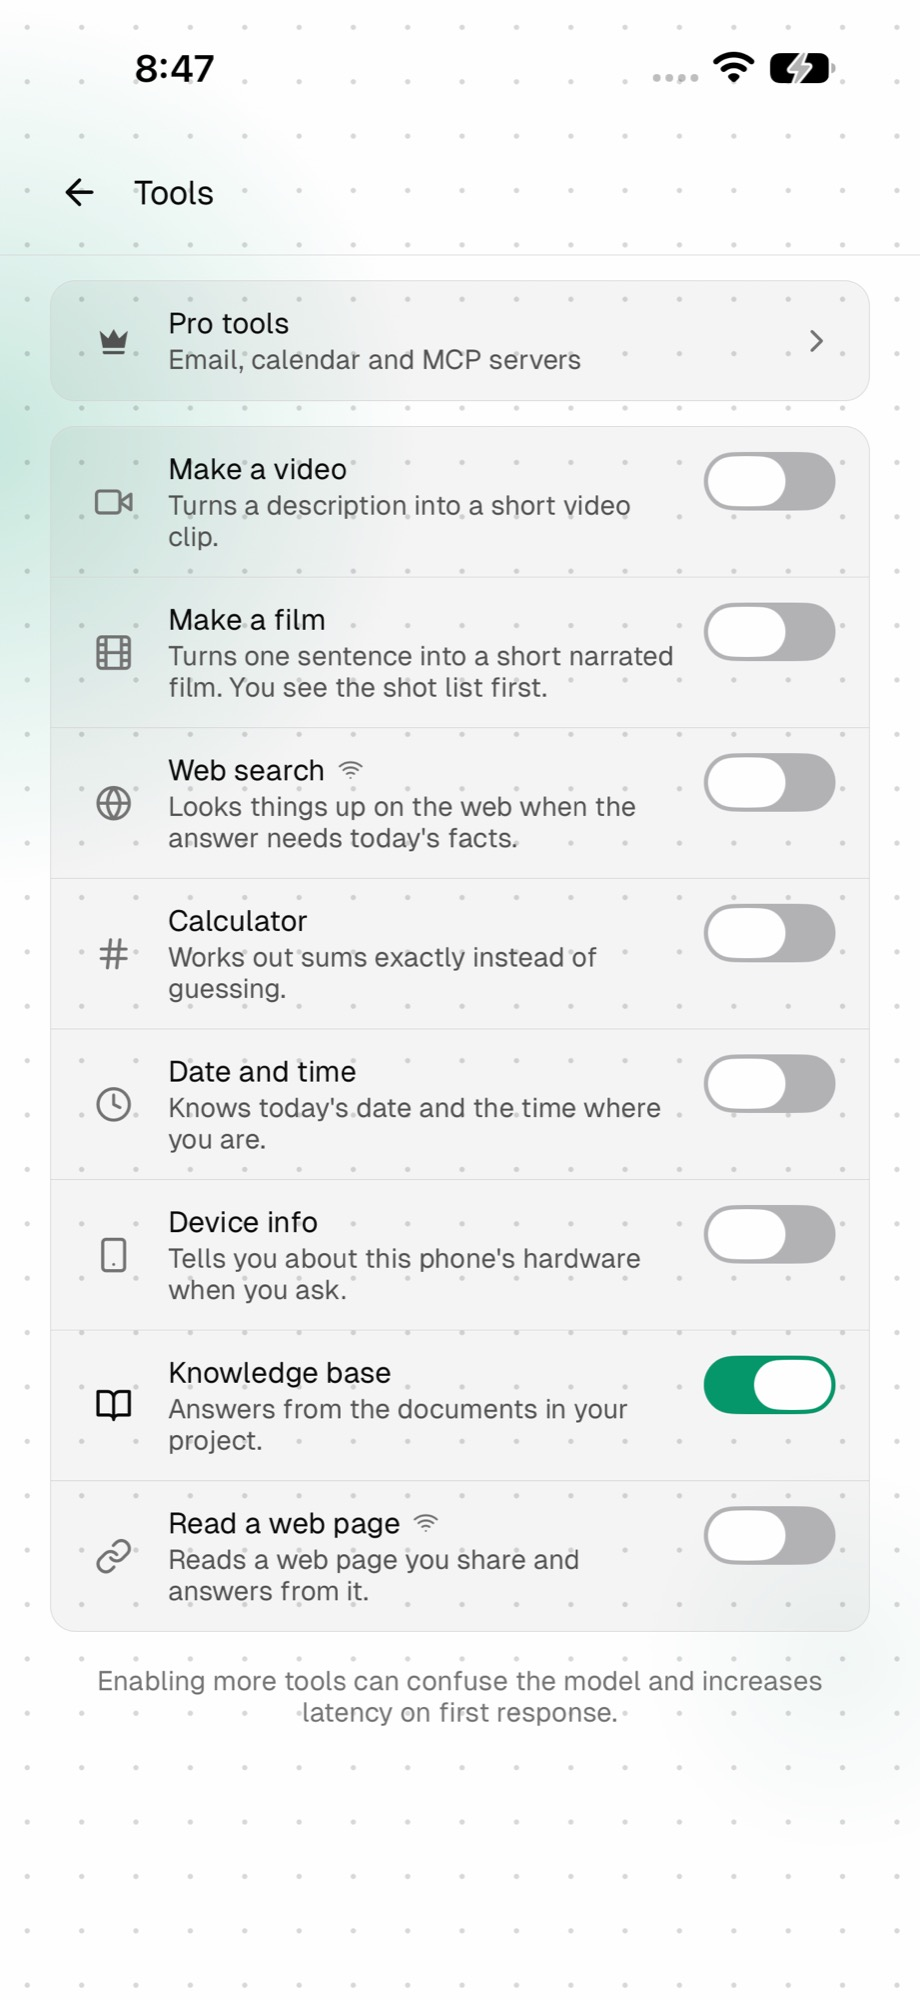
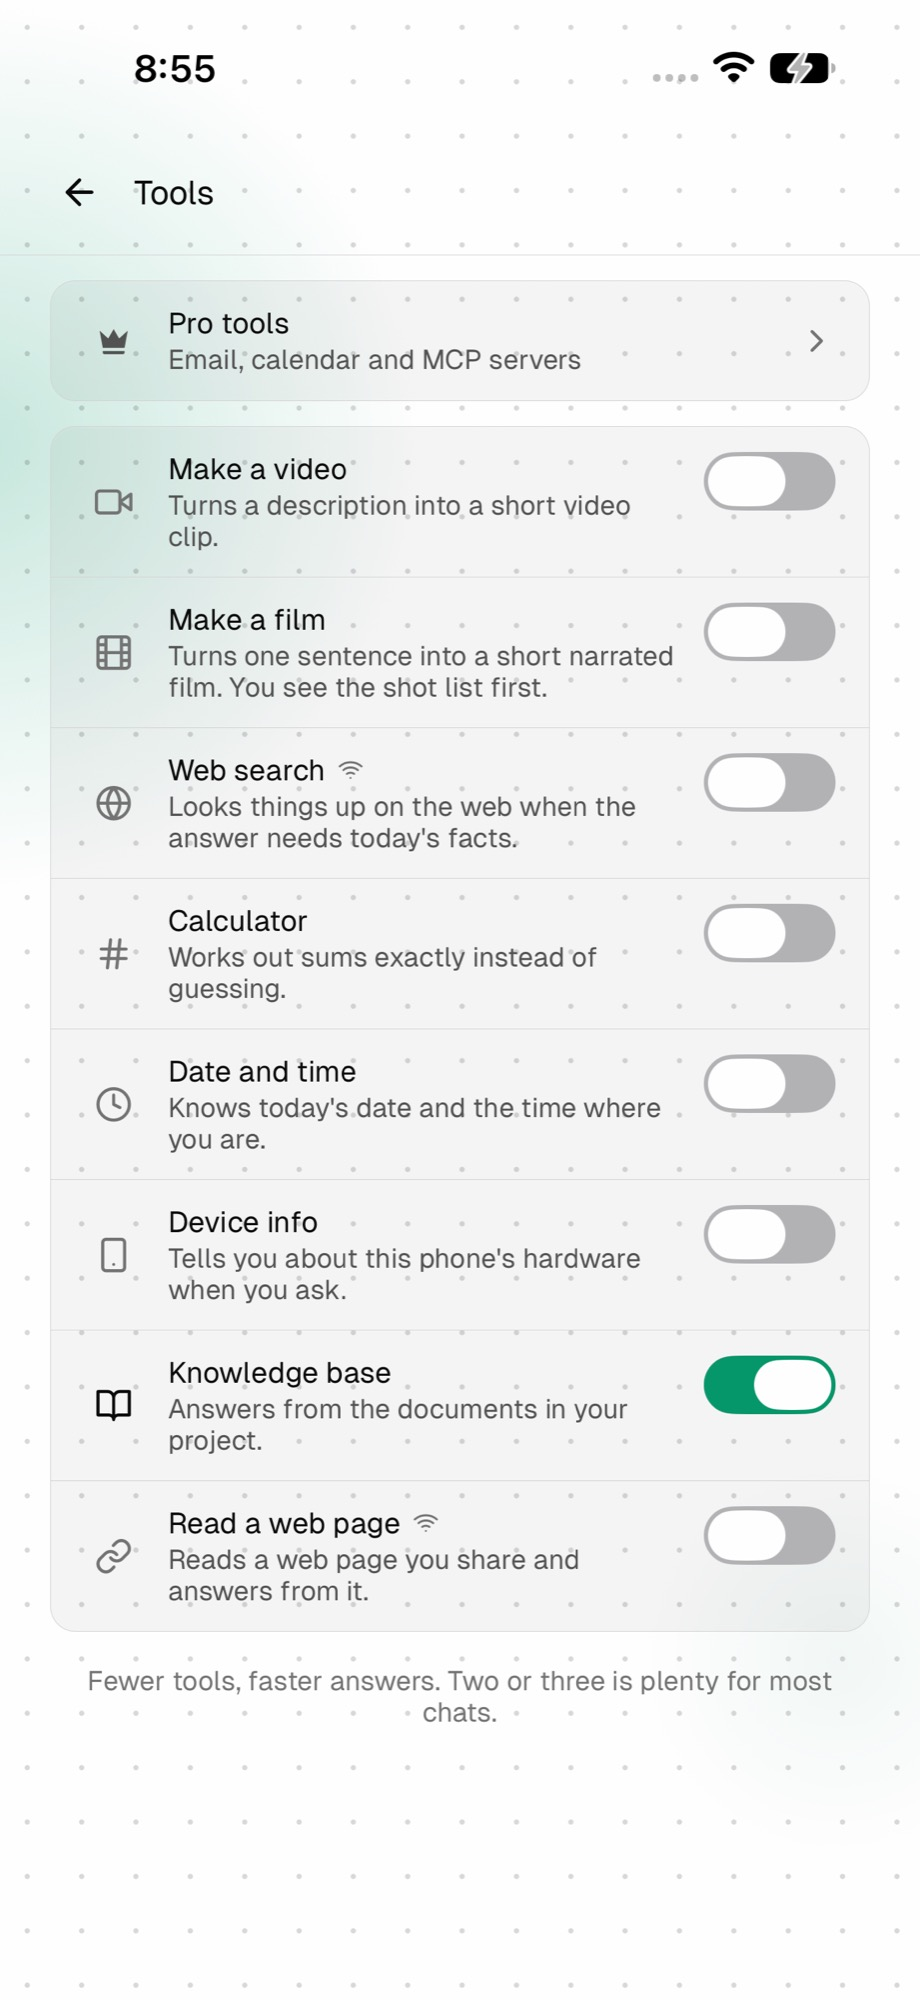
Ledger: hand test 64; review screens from build 65

Changed region(s): [[0.0913, 0.837, 0.8826, 0.868], [0.1826, 0.031, 0.2435, 0.062]]

diff --git a/docs/PLAY_LEDGER.md b/docs/PLAY_LEDGER.md
@@ -577,3 +577,7 @@ Newly passing: project, settings-model, security, engine updates. Fail: settings
 ## Supervisor 00:20 (hand test 63, build 64) — 15 of 26 pass (was 13)
 
 Newly passing: chat settings sheet, Delete at the end; white switch knobs in. Fail: chat (3 meta rows), chat options (gold Pro crown and pill), Pro tools (MCP server cards: letter tile, Active pill, trash), Tools (model-facing footer, "Tools 0" with Knowledge base on), settings-lower (6 unlabelled cards), remote servers (3 icons + radio), device info (tier boxes), storage (4 cards, empty Leftover files), about, gallery + viewer.
+
+## Supervisor 01:30 (hand test 64, build 65) — 16 of 26 pass (was 15)
+
+Newly passing: Tools, Settings (Pro in the list). Pro tools: each MCP server is still a card (logo tile, status pill, separate tools line). Still failing: chat meta rows, chat options count, pro tools, settings-lower, about, device info (tier grid fixed after this build), storage, remote servers, gallery + viewer.
